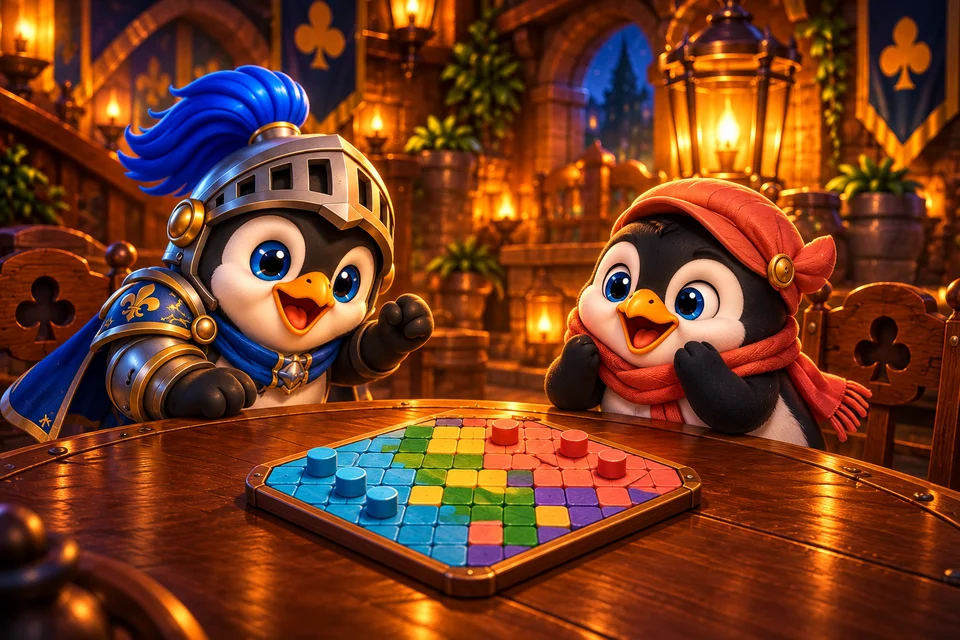
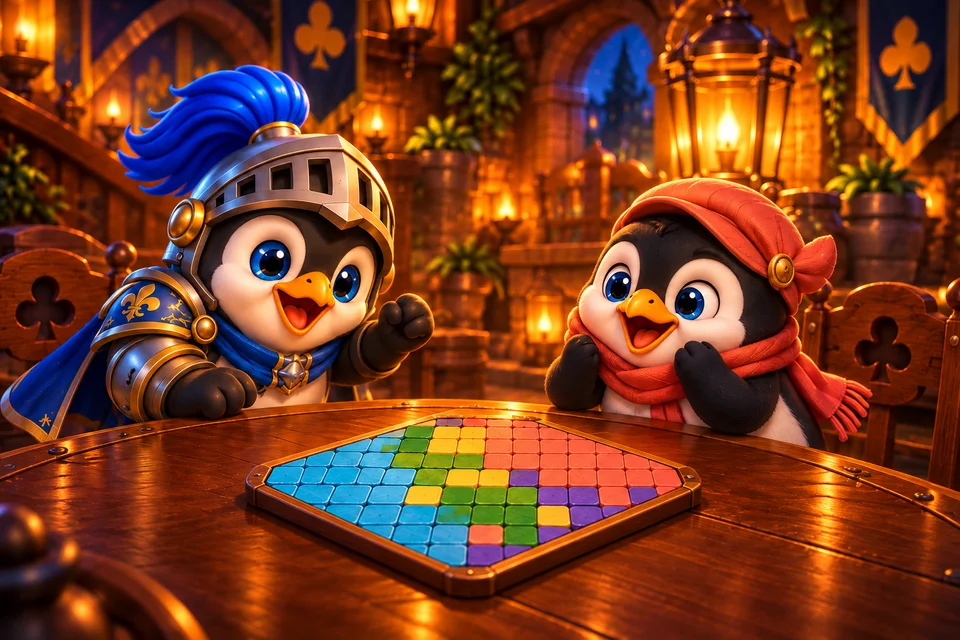
Farbduell: Pucks aus dem Spielbild entfernen

diff --git a/docs/ASSETS-FARBDUELL-REISE.md b/docs/ASSETS-FARBDUELL-REISE.md
@@ -12,12 +12,13 @@ Rand und Luft um das Motiv; keine extreme Nahaufnahme mehr. Die Gesichter
 bleiben auch beim fast quadratischen Beschnitt der Spielauswahl erkennbar.
 
 Keine Schrift, kein Logo, kein Wasserzeichen, kein Schachbrett als Transparenz.
-Keine Karten, Würfel oder Tetris-Steine. Vollflächig ohne äußeren App-Rahmen.
+Keine Karten, Würfel, Tetris-Steine, Pucks, Spielsteine oder Figuren auf dem Spielfeld.
+Das Spielfeld enthält ausschließlich die flachen farbigen Felder. Vollflächig ohne äußeren App-Rahmen.
 Abnahme: Pinguine und Farbgebiete klein erkennbar, passend zu den anderen Spielen.
 
 Erzeugt mit eingebauter Bildgenerierung anhand des Doppelkopf-Banners. Original
-im separaten Archiv `brauweg-art/hub/farbduell/pinguine-original.png`; die
-vorherige Fassung bleibt dort als `original.png` erhalten. Auslieferung WebP:
+im separaten Archiv `brauweg-art/hub/farbduell/pinguine-ohne-pucks-original.png`; die
+vorherigen Fassungen bleiben dort als `pinguine-original.png` und `original.png` erhalten. Auslieferung WebP:
 `hub/spielwahl-farbduell.webp` 512 × 512 und `hub/banner-farbduell.webp`
 960 × 640; Profil `szene`. Keine Originalauflösung unter public.
 `bannerFuer('filler')` verbindet Spieleliste, Favoriten und Spielseite mit dem neuen Bild.
